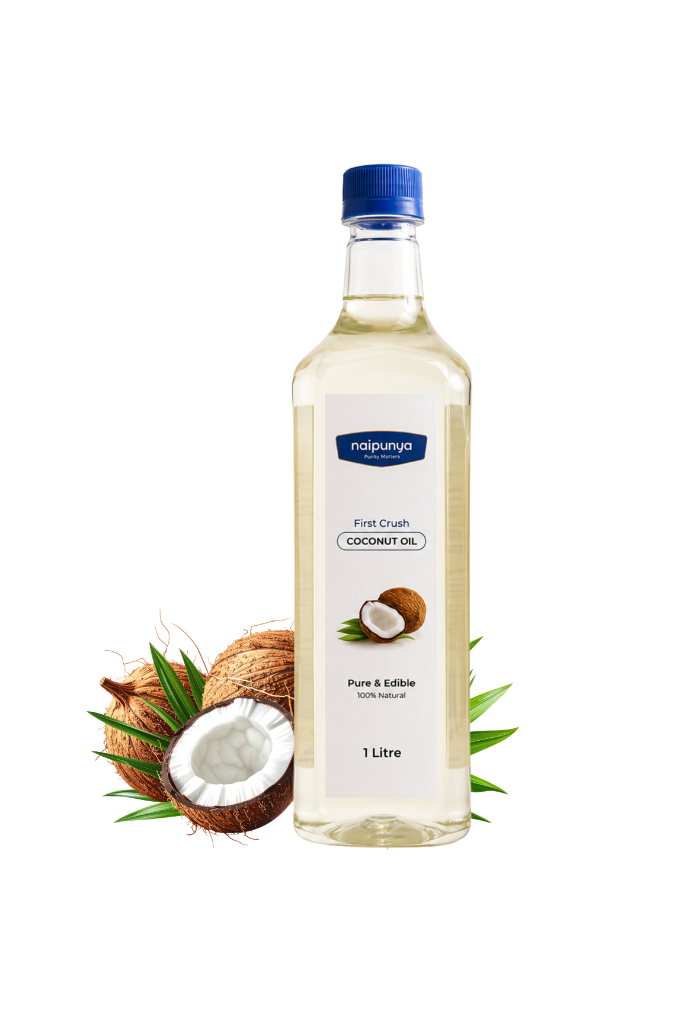
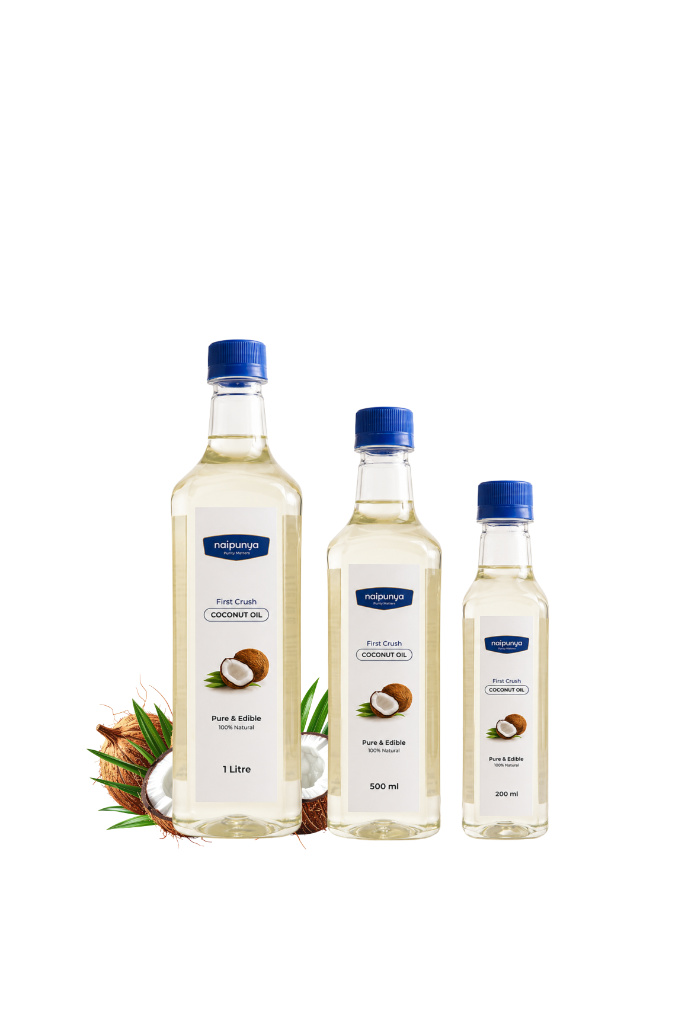
Update products section, address, and images

Changed region(s): [[0.1232, 0.1562, 0.8314, 0.8438]]

diff --git a/app/contact/page.tsx b/app/contact/page.tsx
@@ -9,7 +9,18 @@ import Footer from "@/components/Footer";
 const contactInfo = [
   { icon: Mail, label: "Email", value: "[email redacted]" },
   { icon: Phone, label: "Phone", value: "+91 XXXXX XXXXX" },
-  { icon: MapPin, label: "Location", value: "Kerala, India" },
+  { 
+    icon: MapPin, 
+    label: "Location", 
+    value: (
+      <span className="leading-relaxed block mt-1 text-sm font-medium text-[#1A1A1A]">
+        NAIPUNYA FOODS<br />
+        Door No : 18/518 (2)<br />
+        Puthur Road, Koppam<br />
+        Palakkad 678001
+      </span>
+    ) 
+  },
 ];
 
 export default function ContactPage() {
@@ -66,7 +77,7 @@ export default function ContactPage() {
                       </div>
                       <div>
                         <p className="text-xs font-semibold text-[#1A1A1A]/40 uppercase tracking-wider">{label}</p>
-                        <p className="text-sm font-medium text-[#1A1A1A]">{value}</p>
+                        <div className="text-sm font-medium text-[#1A1A1A]">{value}</div>
                       </div>
                     </motion.div>
                   ))}

diff --git a/components/Footer.tsx b/components/Footer.tsx
@@ -112,8 +112,13 @@ export default function Footer() {
                 <span>+91 XXXXX XXXXX</span>
               </li>
               <li className="flex items-start gap-2.5 text-sm text-[#1A1A1A]/70">
-                <MapPin size={14} className="mt-0.5 text-[#D4A24C] flex-shrink-0" />
-                <span>Kerala, India</span>
+                <MapPin size={14} className="mt-1 text-[#D4A24C] flex-shrink-0" />
+                <span className="leading-relaxed">
+                  NAIPUNYA FOODS<br />
+                  Door No : 18/518 (2)<br />
+                  Puthur Road, Koppam<br />
+                  Palakkad 678001
+                </span>
               </li>
             </ul>
           </div>

diff --git a/components/Products.tsx b/components/Products.tsx
@@ -9,7 +9,7 @@ export default function Products() {
           {/* Coconut Oil */}
           <div className="product-card">
             <div className="product-image">
-              <img src="/coconut-oil.png" alt="Coconut Oil" />
+              <img src="/coconutoill.png?v=3" alt="Coconut Oil" />
             </div>
 
             <div className="product-content">
@@ -35,7 +35,7 @@ export default function Products() {
           {/* Deepam Oil */}
           <div className="product-card">
             <div className="product-image">
-              <img src="/deepam-oil.png" alt="Deepam Oil" />
+              <img src="/deepamoil.png?v=3" alt="Deepam Oil" />
             </div>
 
             <div className="product-content">